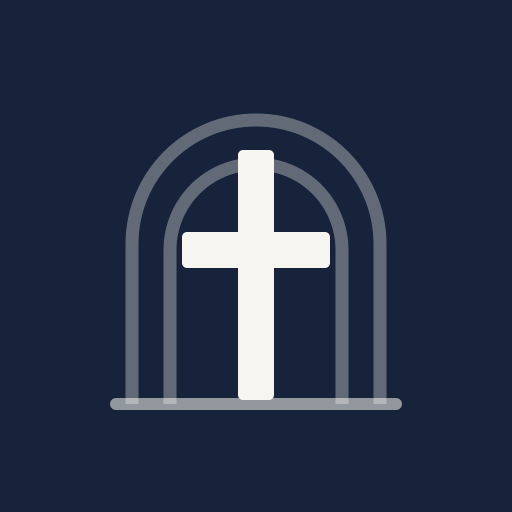
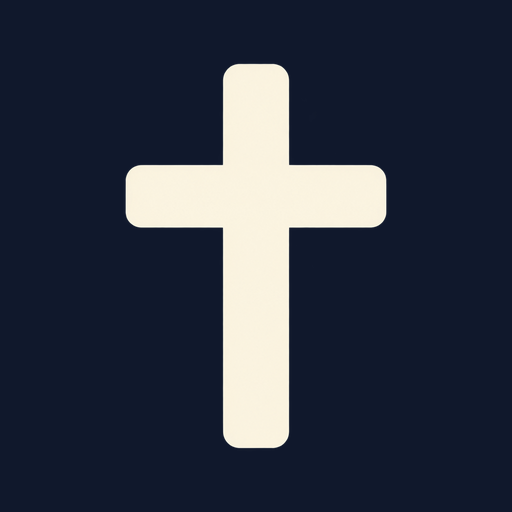
Publicar Horas 2.0 con identidad católica y progreso diario

Changed region(s): [[0.2188, 0.125, 0.7812, 0.875]]

diff --git a/app.js b/app.js
@@ -11,7 +11,7 @@ var MESES = ["enero","febrero","marzo","abril","mayo","junio","julio","agosto","
 var TEMAS = ["papel","sepia","noche"];
 
 var HOY = new Date();
-var CLAVE = (function(d){ var g = d.getDay(); return g === 6 ? 6 : g; })(HOY);
+var CLAVE = HOY.getDay();
 var RUB = false;
 var SECCION = null;
 var LISTA = [];
@@ -23,6 +23,12 @@ var raiz = document.documentElement;
 
 function cap(s){ return s.charAt(0).toUpperCase() + s.slice(1); }
 function fechaLarga(d){ return cap(DIAS[d.getDay()]) + ", " + d.getDate() + " de " + MESES[d.getMonth()] + " de " + d.getFullYear(); }
+function fechaLocal(d){ return d.getFullYear() + "-" + String(d.getMonth()+1).padStart(2,"0") + "-" + String(d.getDate()).padStart(2,"0"); }
+function actualizaDia(){
+  var ahora = new Date();
+  HOY = ahora;
+  CLAVE = HOY.getDay();
+}
 
 /* ---------------------------------------------------------------- Ajustes */
 function tema(){ return raiz.getAttribute("data-theme") || "papel"; }
@@ -60,6 +66,7 @@ function cargaAjustes(){
    "atrás" del móvil cierre la hoja o el oficio en vez de salir de la app. */
 var PROF = 0;          /* entradas que hemos añadido nosotros */
 var IGNORA_POP = false;
+var FOCO_ANTERIOR = null;
 
 function apila(v){ PROF++; history.pushState({ v:v }, ""); }
 function desapila(){
@@ -75,15 +82,18 @@ function pintaHojaCerrada(){
 }
 function abreHoja(id){
   if(hojaAbierta()){ pintaHojaCerrada(); desapila(); }
+  FOCO_ANTERIOR = document.activeElement;
   $(id).classList.add("on");
   $("scrim").classList.add("on");
   document.body.style.overflow = "hidden";
   apila("hoja");
+  setTimeout(function(){ $(id).focus(); }, 30);
 }
 function cierraHojas(){
   if(!hojaAbierta()) return;
   pintaHojaCerrada();
   desapila();
+  if(FOCO_ANTERIOR && FOCO_ANTERIOR.focus) FOCO_ANTERIOR.focus();
 }
 
 /* ------------------------------------------------------------- Contenidos */
@@ -106,7 +116,7 @@ function render(lista){
            '<header class="ptit">' +
              '<span class="n">' + p.n + '</span>' +
              '<h3>' + p.t + '</h3>' +
-             '<button class="cald' + (RUB ? "" : " oculto") + '" id="cald' + i + '" aria-label="Ver explicación" onclick="HORAS.toggle(' + i + ')">¶</button>' +
+             '<button class="cald' + (RUB ? "" : " oculto") + '" id="cald' + i + '" aria-label="Ver explicación" aria-expanded="false" aria-controls="rub' + i + '" onclick="HORAS.toggle(' + i + ')">¶</button>' +
            '</header>' +
            p.c +
            '<div class="rubrica" id="rub' + i + '">' + p.r + '</div>' +
@@ -170,6 +180,7 @@ function cambia(c){
 function toggle(i){
   var abierta = $("rub" + i).classList.toggle("abierta");
   $("cald" + i).classList.toggle("abierto", abierta);
+  $("cald" + i).setAttribute("aria-expanded", abierta ? "true" : "false");
   $("parte" + i).classList.toggle("abierta", abierta);
 }
 
@@ -194,6 +205,7 @@ function rubs(){
 function titulo(c){ return c === "manana" ? "Mañana" : (c === "misa" ? "La Misa" : "Completas"); }
 
 function abrir(c, scroll){
+  actualizaDia();
   SECCION = c;
   if(c === "manana"){
     LISTA = MANANA;
@@ -222,6 +234,7 @@ function abrir(c, scroll){
   $("portada").classList.add("oculto");
   $("oficio").classList.add("on");
   $("fab").classList.add("on");
+  pintaCompletar();
   window.scrollTo(0, scroll || 0);
   barraProgreso();
   apila("oficio");
@@ -266,6 +279,7 @@ function barraProgreso(){
   var max = h.scrollHeight - h.clientHeight;
   var pct = max > 20 ? Math.min(100, Math.max(0, (window.scrollY / max) * 100)) : 0;
   $("progreso").style.width = pct + "%";
+  $("progreso").setAttribute("aria-valuenow", Math.round(pct));
 }
 function spy(){
   if(!PARTES.length) return;
@@ -313,7 +327,7 @@ function guarda(){
   if(!SECCION) return;
   try{
     localStorage.setItem("horas_pos", JSON.stringify({
-      s:SECCION, y:window.scrollY, i:ACTUAL, d:new Date().toISOString().slice(0,10)
+      s:SECCION, y:window.scrollY, i:ACTUAL, d:fechaLocal(new Date())
     }));
   }catch(e){}
 }
@@ -323,7 +337,7 @@ function revisaContinuar(){
     var raw = localStorage.getItem("horas_pos");
     if(!raw){ chip.classList.remove("on"); return; }
     var p = JSON.parse(raw);
-    if(p.d !== new Date().toISOString().slice(0,10) || p.y < 120){ chip.classList.remove("on"); return; }
+    if(p.d !== fechaLocal(new Date()) || p.y < 120){ chip.classList.remove("on"); return; }
     var lista = p.s === "manana" ? MANANA : (p.s === "misa" ? MISA : COMPLETAS[CLAVE].partes);
     var parte = lista[p.i] ? lista[p.i].t : "";
     $("continuartxt").textContent = titulo(p.s) + (parte ? " · " + parte : "");
@@ -333,24 +347,78 @@ function revisaContinuar(){
 }
 
 /* ---------------------------------------------------------------- Portada */
+function leeHechos(){
+  try{
+    var datos = JSON.parse(localStorage.getItem("horas_hechos") || "{}");
+    return datos && typeof datos === "object" ? datos : {};
+  }catch(e){ return {}; }
+}
+function hechosHoy(){
+  var todos = leeHechos(), xs = todos[fechaLocal(new Date())];
+  return Array.isArray(xs) ? xs.filter(function(x){ return ["manana","misa","completas"].indexOf(x) >= 0; }) : [];
+}
+function guardaHechos(xs){
+  try{
+    var todos = leeHechos(), hoy = fechaLocal(new Date()), claves = Object.keys(todos).sort().slice(-59);
+    var limpio = {};
+    for(var i=0;i<claves.length;i++) limpio[claves[i]] = todos[claves[i]];
+    limpio[hoy] = xs;
+    localStorage.setItem("horas_hechos", JSON.stringify(limpio));
+  }catch(e){}
+}
+function pintaRitmo(){
+  var xs = hechosHoy(), nombres = ["manana","misa","completas"];
+  $("ritmo-txt").textContent = xs.length + " de 3 momentos";
+  for(var i=0;i<nombres.length;i++){
+    var hecho = xs.indexOf(nombres[i]) >= 0;
+    $("punto-" + nombres[i]).classList.toggle("on", hecho);
+    $("hecho-" + nombres[i]).hidden = !hecho;
+  }
+}
+function pintaCompletar(){
+  if(!SECCION) return;
+  var hecho = hechosHoy().indexOf(SECCION) >= 0;
+  $("completar").classList.toggle("on", hecho);
+  $("completar").setAttribute("aria-pressed", hecho ? "true" : "false");
+  $("completar-titulo").textContent = hecho ? "Rezado hoy" : "Marcar como rezado";
+  $("completar-sub").textContent = hecho ? "Toca para desmarcar" : "Se guardará solo en este dispositivo";
+}
+function completar(){
+  if(!SECCION) return;
+  var xs = hechosHoy(), pos = xs.indexOf(SECCION);
+  if(pos >= 0) xs.splice(pos,1); else xs.push(SECCION);
+  guardaHechos(xs); pintaCompletar(); pintaRitmo();
+}
 function pintaPortada(){
+  actualizaDia();
   $("fecha").textContent = DIAS[HOY.getDay()] + " · " + HOY.getDate() + " de " + MESES[HOY.getMonth()];
   $("meta-manana").textContent = MANANA.length + " oraciones · ≈" + minutos(MANANA) + " min";
   var comp = COMPLETAS[CLAVE];
-  $("meta-completas").textContent = comp.nombre.split(" · ")[0] + " · ≈" + minutos(comp.partes) + " min";
+  var nombreComp = CLAVE === 6 ? "Sábado noche" : comp.nombre.split(" · ")[0];
+  $("meta-completas").textContent = nombreComp + " · ≈" + minutos(comp.partes) + " min";
   $("meta-misa").textContent = MISA.length + " partes explicadas";
 
   var hora = HOY.getHours();
   var ahora = hora < 12 ? "manana" : (hora < 20 ? "misa" : "completas");
+  var nombres = ["manana","misa","completas"];
+  for(var i=0;i<nombres.length;i++){
+    $("pta-" + nombres[i]).classList.remove("ahora");
+    $("badge-" + nombres[i]).hidden = true;
+  }
   $("pta-" + ahora).classList.add("ahora");
   $("badge-" + ahora).hidden = false;
+  pintaRitmo();
 }
 
 /* -------------------------------------------------- Pantalla siempre encendida */
 var wakeLock = null, wakeOn = false;
 function soportaWake(){ return "wakeLock" in navigator; }
 async function pideWake(){
-  try{ wakeLock = await navigator.wakeLock.request("screen"); }
+  if(wakeLock && !wakeLock.released) return;
+  try{
+    wakeLock = await navigator.wakeLock.request("screen");
+    wakeLock.addEventListener("release", function(){ wakeLock = null; });
+  }
   catch(e){ wakeOn = false; pintaPalanca(); }
 }
 function pintaPalanca(){
@@ -446,5 +514,7 @@ pintaPortada();
 revisaContinuar();
 iniciaWake();
 
-window.HORAS = { abrir:abrir, volver:volver, toggle:toggle, rubs:rubs, irA:irA, instalar:instalar, cambia:cambia };
+window.HORAS = { abrir:abrir, volver:volver, toggle:toggle, rubs:rubs, irA:irA, instalar:instalar, cambia:cambia, completar:completar };
+var acceso = new URLSearchParams(location.search).get("abrir");
+if(["manana","completas","misa"].indexOf(acceso) >= 0) setTimeout(function(){ abrir(acceso); }, 0);
 })();

diff --git a/index.html b/index.html
@@ -13,13 +13,13 @@
 <link rel="manifest" href="manifest.json">
 <link rel="apple-touch-icon" href="icons/apple-touch-icon.png">
 <link rel="icon" href="icons/favicon-32.png" sizes="32x32">
-<link rel="icon" href="icons/icon.svg" type="image/svg+xml">
 <title>Horas · Devocionario</title>
 <link rel="preload" href="fonts/Cardo-Regular.woff2" as="font" type="font/woff2" crossorigin>
 <link rel="preload" href="fonts/PlexSans-SemiBold.woff2" as="font" type="font/woff2" crossorigin>
 <link rel="stylesheet" href="style.css">
 </head>
 <body>
+<a class="skip" href="#portada">Saltar al contenido</a>
 
 <!-- ============================ PORTADA ============================ -->
 <div id="portada"><div class="wrap">
@@ -33,16 +33,11 @@
 
   <div class="hero">
     <div class="fecha" id="fecha"></div>
-    <svg class="arco" viewBox="0 0 74 100" aria-hidden="true">
-      <path class="l" d="M5 96V41a32 32 0 0 1 64 0v55"/>
-      <path class="l" d="M14 96V45a23 23 0 0 1 46 0v51"/>
-      <path class="l" d="M1 96h72"/>
-      <rect class="c" x="35.4" y="33" width="3.2" height="43" rx="1"/>
-      <rect class="c" x="26" y="45" width="22" height="3.2" rx="1"/>
-      <path class="ray" d="M37 22v-8M25 26l-4-6M49 26l4-6"/>
+    <svg class="arco" viewBox="0 0 100 100" aria-hidden="true">
+      <path class="c" d="M46 12h8v25h20v8H54v43h-8V45H26v-8h20Z"/>
     </svg>
     <h1>Horas</h1>
-    <p class="lema">Comenzar el día en presencia de Dios.<br>Rezar, y entender lo que se reza.</p>
+    <p class="lema">Rezar con la Iglesia.<br>Vivir el día en presencia de Dios.</p>
     <div class="fleuron"><i></i><b></b><i></i></div>
   </div>
 
@@ -51,13 +46,18 @@
     <span class="tx"><b>Continuar</b><span id="continuartxt"></span></span>
   </button>
 
+  <div class="ritmo" id="ritmo" aria-live="polite">
+    <div><span class="ritmo-kicker">Ritmo de hoy</span><strong id="ritmo-txt">0 de 3 momentos</strong></div>
+    <div class="ritmo-puntos" aria-hidden="true"><i id="punto-manana"></i><i id="punto-misa"></i><i id="punto-completas"></i></div>
+  </div>
+
   <div class="puertas">
     <button class="pta" id="pta-manana" onclick="HORAS.abrir('manana')">
       <span class="medalla">
         <svg viewBox="0 0 24 24"><path d="M3.5 18.5h17"/><path d="M7 18.5a5 5 0 0 1 10 0"/><path d="M12 4.5v2.6"/><path d="M5.4 7.6l1.9 1.9"/><path d="M18.6 7.6l-1.9 1.9"/></svg>
       </span>
       <span class="mid">
-        <span class="h"><strong>Mañana</strong><span class="badge" id="badge-manana" hidden>Ahora</span></span>
+        <span class="h"><strong>Mañana</strong><span class="badge" id="badge-manana" hidden>Ahora</span><span class="hecho" id="hecho-manana" hidden>Hecho</span></span>
         <span class="s" id="meta-manana">Ofrecimiento del día</span>
       </span>
       <span class="go"><svg viewBox="0 0 24 24"><path d="M9 5l7 7-7 7"/></svg></span>
@@ -68,7 +68,7 @@
         <svg viewBox="0 0 24 24"><path d="M18.5 15.2A7.2 7.2 0 0 1 9.3 5.6a7.2 7.2 0 1 0 9.2 9.6z"/><path d="M17.2 3.4l.7 1.9 1.9.7-1.9.7-.7 1.9-.7-1.9-1.9-.7 1.9-.7z"/></svg>
       </span>
       <span class="mid">
-        <span class="h"><strong>Completas</strong><span class="badge" id="badge-completas" hidden>Ahora</span></span>
+        <span class="h"><strong>Completas</strong><span class="badge" id="badge-completas" hidden>Ahora</span><span class="hecho" id="hecho-completas" hidden>Hecho</span></span>
         <span class="s" id="meta-completas">Oración de la noche</span>
       </span>
       <span class="go"><svg viewBox="0 0 24 24"><path d="M9 5l7 7-7 7"/></svg></span>
@@ -79,7 +79,7 @@
         <svg viewBox="0 0 24 24"><path d="M6.6 4h10.8v2.6c0 3-2.4 5.4-5.4 5.4S6.6 9.6 6.6 6.6z"/><path d="M12 12v5.2"/><path d="M9.4 20h5.2"/><path d="M9.6 20c0-1.4 1.1-2.5 2.4-2.5s2.4 1.1 2.4 2.5"/></svg>
       </span>
       <span class="mid">
-        <span class="h"><strong>La Misa</strong><span class="badge" id="badge-misa" hidden>Ahora</span></span>
+        <span class="h"><strong>La Misa</strong><span class="badge" id="badge-misa" hidden>Ahora</span><span class="hecho" id="hecho-misa" hidden>Hecho</span></span>
         <span class="s" id="meta-misa">Explicación paso a paso</span>
       </span>
       <span class="go"><svg viewBox="0 0 24 24"><path d="M9 5l7 7-7 7"/></svg></span>
@@ -111,7 +111,7 @@
         <button class="chip" id="rt" onclick="HORAS.rubs()"><span>¶</span> Entender</button>
       </div>
     </div>
-    <div class="progreso" id="progreso"></div>
+    <div class="progreso" id="progreso" role="progressbar" aria-label="Progreso de lectura" aria-valuemin="0" aria-valuemax="100" aria-valuenow="0"></div>
   </div>
 
   <div class="wrap">
@@ -121,6 +121,9 @@
       <p class="sub" id="osub"></p>
     </div>
     <div id="cuerpo"></div>
+    <button class="completar" id="completar" onclick="HORAS.completar()">
+      <span class="completar-marca">✓</span><span><strong id="completar-titulo">Marcar como rezado</strong><small id="completar-sub">Se guardará solo en este dispositivo</small></span>
+    </button>
     <div class="cierre"><span class="fl"></span><span>Ad maiorem Dei gloriam</span></div>
   </div>
 </div>
@@ -133,7 +136,7 @@
 <!-- ============================ HOJAS ============================ -->
 <div class="scrim" id="scrim"></div>
 
-<div class="hoja" id="hojaindice" role="dialog" aria-label="Índice">
+<div class="hoja" id="hojaindice" role="dialog" aria-modal="true" aria-label="Índice" tabindex="-1">
   <div class="asa"></div>
   <div class="hcab">
     <h4 id="indice-tit">Índice</h4>
@@ -145,7 +148,7 @@
   </div>
 </div>
 
-<div class="hoja" id="hojaajustes" role="dialog" aria-label="Ajustes">
+<div class="hoja" id="hojaajustes" role="dialog" aria-modal="true" aria-label="Ajustes" tabindex="-1">
   <div class="asa"></div>
   <div class="hcab">
     <h4>Ajustes</h4>

diff --git a/style.css b/style.css
@@ -130,7 +130,7 @@ button{font:inherit;color:inherit;background:none;border:none;cursor:pointer;-we
 .hero{text-align:center;padding:34px 0 6px;position:relative}
 .hero .fecha{font-family:var(--sans);font-size:10px;font-weight:600;letter-spacing:.24em;text-transform:uppercase;color:var(--brand);display:inline-flex;align-items:center;gap:10px}
 .hero .fecha::before,.hero .fecha::after{content:"";width:22px;height:1px;background:var(--brand-line)}
-.arco{display:block;margin:26px auto 14px;width:74px;height:96px;overflow:visible}
+.arco{display:block;margin:24px auto 12px;width:76px;height:76px;overflow:visible}
 .arco .l{fill:none;stroke:var(--line-2);stroke-width:1}
 .arco .c{fill:var(--brand)}
 .arco .ray{stroke:var(--brand-line);stroke-width:1}
@@ -406,3 +406,15 @@ span.nota{display:inline;margin:0;font-size:.78em}
 }
 .saltos button:active{transform:scale(.95);border-color:var(--brand)}
 .saltos button svg{width:15px;height:15px;stroke:var(--brand);fill:none;stroke-width:1.3;stroke-linecap:round;stroke-linejoin:round}
+
+/* Versión 2 · progreso diario y accesibilidad */
+.skip{position:fixed;left:12px;top:12px;z-index:100;transform:translateY(-160%);padding:10px 14px;border-radius:10px;background:var(--ink);color:var(--bg);font-family:var(--sans);font-size:12px;font-weight:600}.skip:focus{transform:none}
+.ritmo{display:flex;align-items:center;justify-content:space-between;gap:16px;margin:4px 0 18px;padding:13px 16px;border:1px solid var(--line);border-radius:var(--r-sm);background:var(--surface)}
+.ritmo-kicker{display:block;font-family:var(--sans);font-size:9px;font-weight:600;letter-spacing:.18em;text-transform:uppercase;color:var(--faint)}
+.ritmo strong{display:block;margin-top:2px;font-family:var(--sans);font-size:12px;font-weight:600;color:var(--text)}
+.ritmo-puntos{display:flex;gap:6px}.ritmo-puntos i{width:9px;height:9px;border-radius:50%;border:1px solid var(--brand-line);background:var(--surface-2);transition:.2s}.ritmo-puntos i.on{border-color:var(--brand);background:var(--brand)}
+.hecho{padding:3px 7px;border-radius:20px;background:var(--brand-soft);color:var(--brand);font-family:var(--sans);font-size:8px;font-weight:600;letter-spacing:.1em;text-transform:uppercase}
+.completar{width:100%;display:flex;align-items:center;justify-content:center;gap:12px;margin:44px 0 0;padding:15px 18px;border:1px solid var(--brand-line);border-radius:var(--r);background:var(--surface);color:var(--text);box-shadow:var(--shadow-sm);text-align:left;transition:.2s}
+.completar:active{transform:scale(.98)}.completar.on{background:var(--brand-soft);border-color:var(--brand)}
+.completar-marca{width:31px;height:31px;border:1px solid var(--brand-line);border-radius:50%;display:grid;place-items:center;color:var(--brand);font-weight:700}.completar.on .completar-marca{background:var(--brand);color:var(--surface)}
+.completar strong,.completar small{display:block;font-family:var(--sans)}.completar strong{font-size:12px;font-weight:600}.completar small{margin-top:2px;font-size:9.5px;color:var(--faint)}

diff --git a/sw.js b/sw.js
@@ -1,4 +1,4 @@
-var CACHE = "horas-v3";
+var CACHE = "horas-v4";
 var ASSETS = [
   "./",
   "./index.html",
@@ -17,8 +17,7 @@ var ASSETS = [
   "./icons/icon-maskable-192.png",
   "./icons/icon-maskable-512.png",
   "./icons/apple-touch-icon.png",
-  "./icons/favicon-32.png",
-  "./icons/icon.svg"
+  "./icons/favicon-32.png"
 ];
 
 self.addEventListener("install", function(e){
@@ -38,6 +37,14 @@ self.addEventListener("activate", function(e){
 
 self.addEventListener("fetch", function(e){
   if(e.request.method !== "GET") return;
+  if(e.request.mode === "navigate"){
+    e.respondWith(fetch(e.request).then(function(resp){
+      var copy = resp.clone();
+      caches.open(CACHE).then(function(cache){ cache.put("./index.html", copy); });
+      return resp;
+    }).catch(function(){ return caches.match("./index.html"); }));
+    return;
+  }
   e.respondWith(
     caches.match(e.request).then(function(cached){
       var network = fetch(e.request).then(function(resp){

diff --git a/README.md b/README.md
@@ -1,6 +1,15 @@
 # Horas · Devocionario
 
-App de oración personal (PWA): ofrecimiento de la mañana, Completas de cada día de la semana y la Misa explicada paso a paso. Se instala en el móvil como una app normal y funciona sin conexión.
+Devocionario católico personal (PWA): ofrecimiento de la mañana, Completas de cada día de la semana y la Santa Misa explicada paso a paso. Se instala en el móvil como una app normal y funciona sin conexión.
+
+## Versión 2.0
+
+- Nuevo icono católico sencillo: una cruz latina moderna en marfil sobre azul noche.
+- Seguimiento diario de Mañana, Misa y Completas, guardado solo en el dispositivo.
+- Accesos directos desde el icono de la app a cada momento de oración.
+- Cambio de día corregido para sesiones largas y fechas calculadas en hora local.
+- Mejoras de accesibilidad en paneles, explicaciones y progreso de lectura.
+- Actualización más fiable de la PWA sin perder el modo sin conexión.
 
 ## Publicar en GitHub Pages
 
@@ -39,6 +48,7 @@ Abre la URL en el navegador del móvil.
 - **Entender**: el botón ¶ despliega, junto a cada parte, qué es y de dónde viene lo que se está rezando.
 - **Ahora**: la portada marca el momento que toca según la hora del día.
 - **Continuar**: si sales a mitad de una oración, la portada te ofrece volver al punto exacto.
+- **Ritmo de hoy**: permite marcar cada momento como rezado y muestra el avance del día sin rachas ni puntuaciones.
 - **Índice deslizable** con la parte actual resaltada mientras lees, y salto directo a otro momento del día sin pasar por la portada.
 - **Tres temas** (papel, sepia y noche) y tamaño de letra ajustable, con la preferencia recordada.
 - **Pantalla siempre encendida** mientras rezas, si el móvil lo permite.
